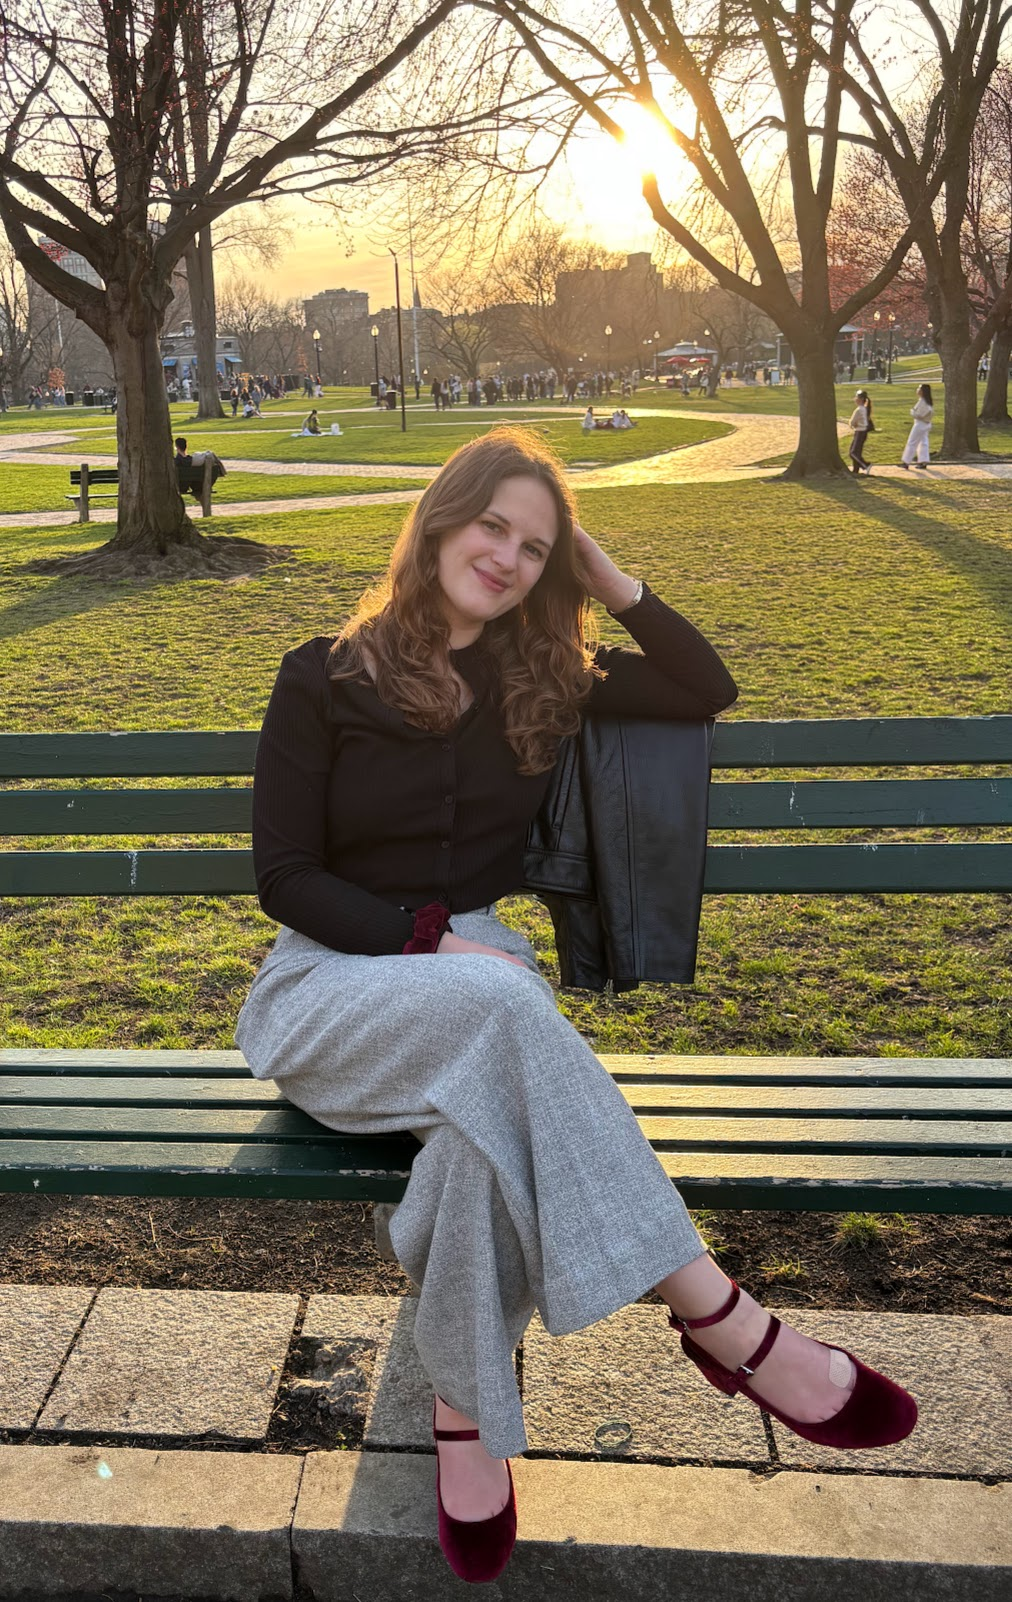
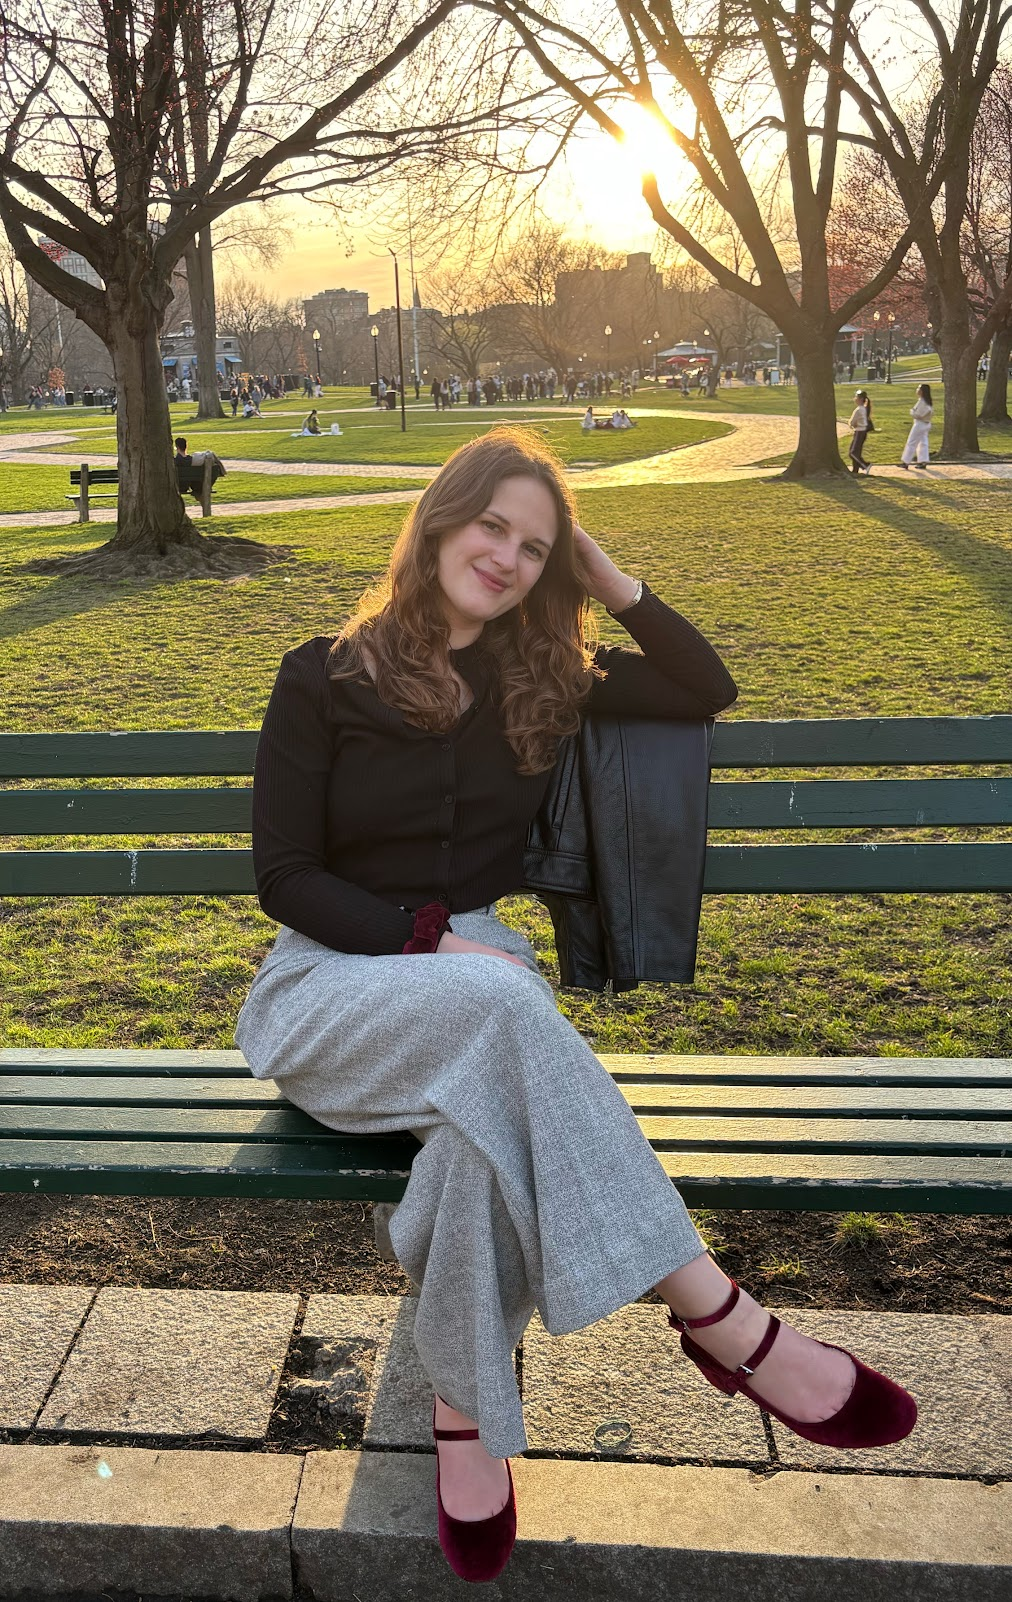
updated pictures

diff --git a/_posts/2025-07-09-officially-began-voyage.md b/_posts/2025-07-09-officially-began-voyage.md
@@ -1,4 +1,4 @@
-<div class="gallery">
+<div class="gallery-stacked">
     {% for image in site.static_files %}
         {% if image.path contains 'assets/images/Europe/blog2' %}
             <img src="{{ image.path }}" alt="voyage">